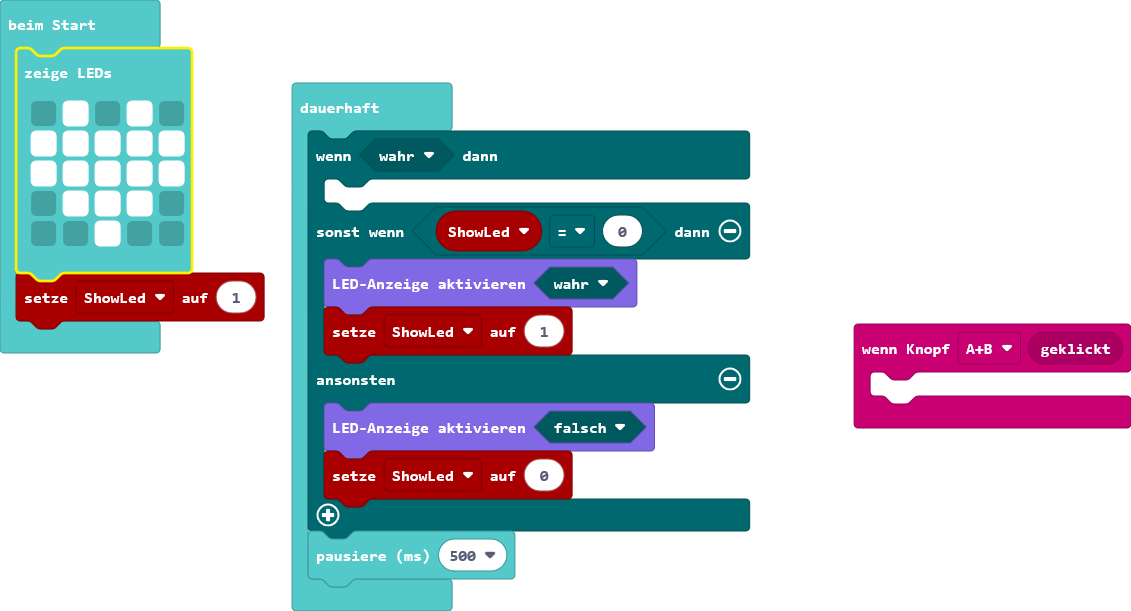
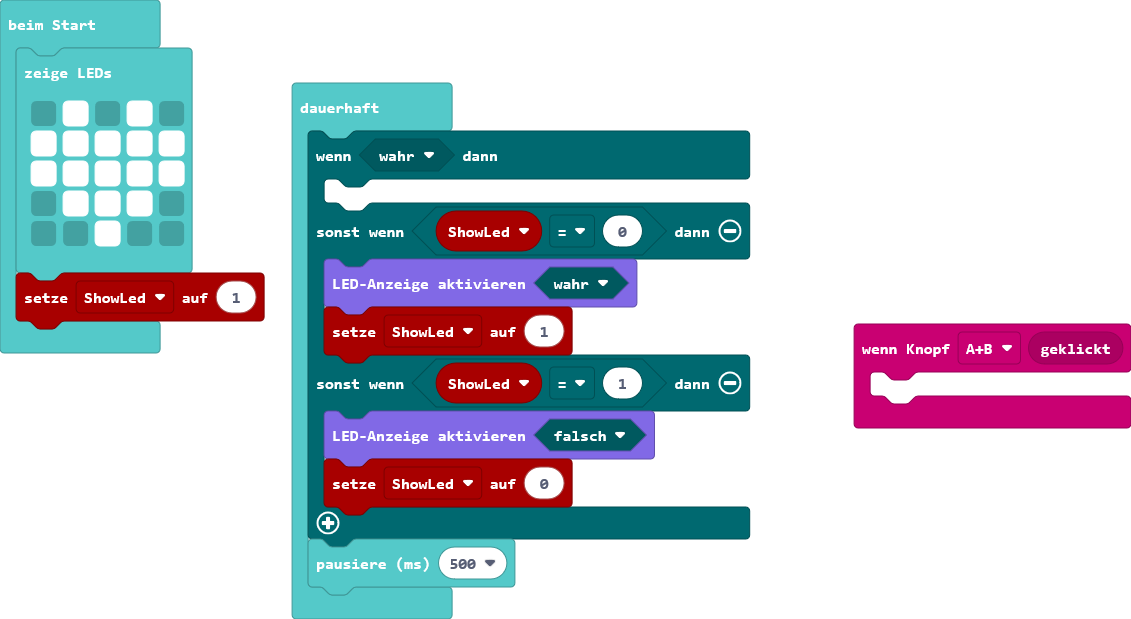
Aktualisiere main.blocks, main.ts

diff --git a/main.ts b/main.ts
@@ -15,7 +15,7 @@ basic.forever(function () {
     } else if (ShowLed == 0) {
         led.enable(true)
         ShowLed = 1
-    } else {
+    } else if (ShowLed == 1) {
         led.enable(false)
         ShowLed = 0
     }
